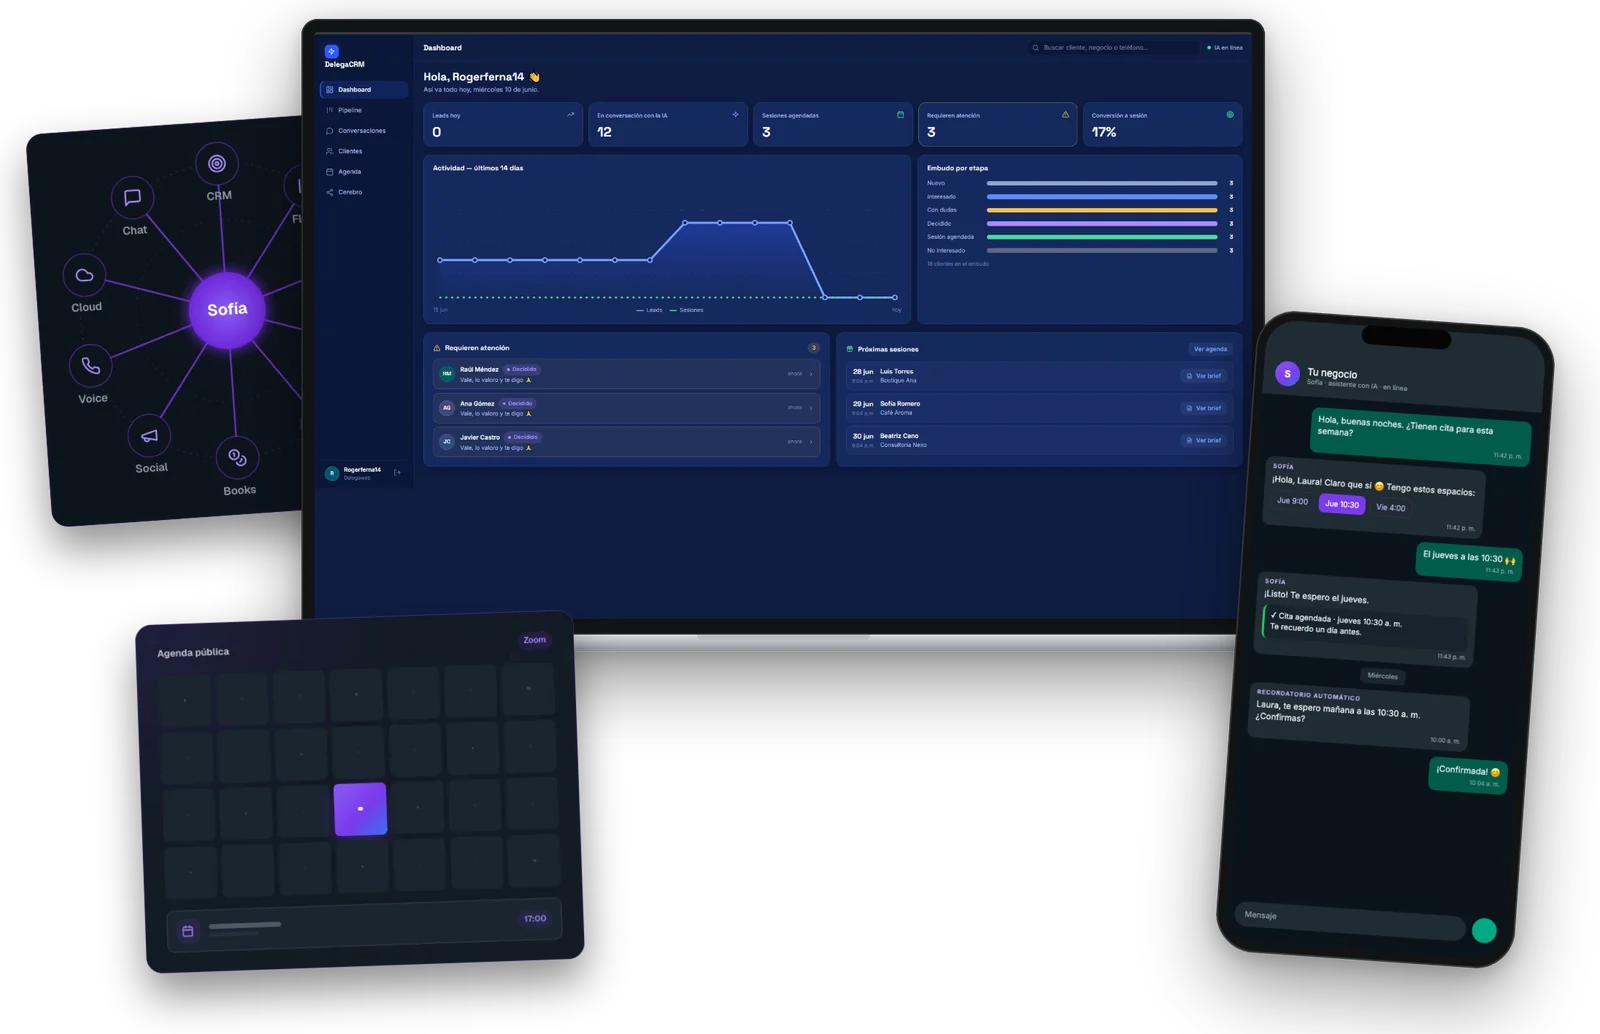
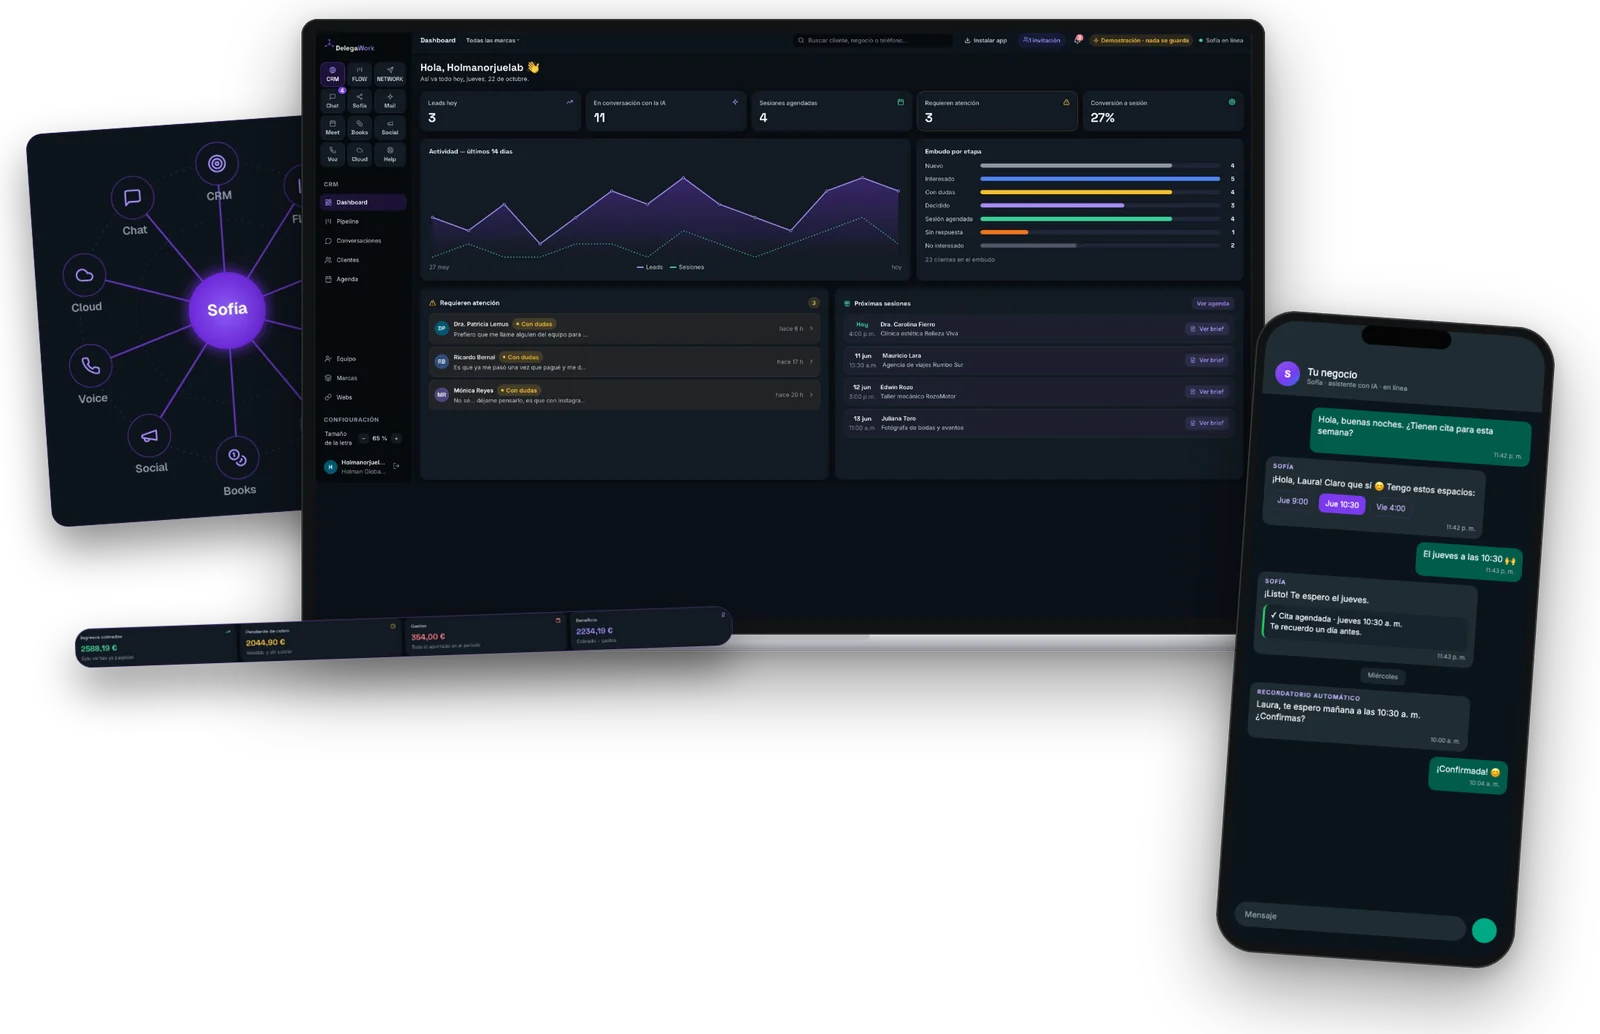
feat(tienda): DelegaWork con capturas reales de la plataforma
El panel real (modo demostración) va en los computadores de la vitrina,
Pro y Elite; Starter y Pro suman «Requieren atención», el embudo y las
próximas sesiones, y la vitrina y Elite los números de DelegaBooks.

diff --git a/scripts/mockups/delegawork.html b/scripts/mockups/delegawork.html
@@ -3,8 +3,8 @@
 <head>
 <meta charset="utf-8">
 <!-- Mockups de DelegaWork para la vitrina de /tienda, con imágenes reales de
-     delegawork.com (capturas/delegawork/: el panel es su product-dashboard.png;
-     las tarjetas de módulos salen de la página con capturar.mjs). El chat de
+     delegawork.com (capturas/delegawork/: real-* son capturas de la plataforma en modo
+     demostración, oct 2026; el resto sale de la página con capturar.mjs). El chat de
      WhatsApp es de muestra. Se fotografía con render.sh delegawork. -->
 <link href="https://fonts.googleapis.com/css2?family=Inter:wght@300;400;500;600;700&display=block" rel="stylesheet">
 <style>
@@ -13,7 +13,7 @@
     --violeta-2: #8B5CF6;
     --lila: #C4B5FD;
     --grad: linear-gradient(135deg, #8B5CF6 0%, #7C3AED 55%, #3B6FF6 100%);
-    --panel: #0F1D44;
+    --panel: #0B1017;
     --sans: "Inter", Helvetica, Arial, sans-serif;
   }
   * { box-sizing: border-box; margin: 0; padding: 0; }
@@ -73,7 +73,7 @@
 </head>
 <body>
 
-<template id="t-panel"><img src="capturas/delegawork/panel.jpg" alt=""></template>
+<template id="t-panel"><img src="capturas/delegawork/real-panel.jpg" alt=""></template>
 
 <template id="t-chat">
   <div class="wa">
@@ -105,7 +105,7 @@
   <div class="laptop sombra" style="left:420px;top:110px;width:1320px">
     <div class="tapa"><div class="pantalla" data-t="t-panel"></div></div><div class="base"></div>
   </div>
-  <div class="pieza" style="left:200px;top:930px;width:600px;transform:rotate(-2deg)"><img src="capturas/delegawork/meet.jpg" alt=""></div>
+  <div class="pieza" style="left:110px;top:930px;width:900px;transform:rotate(-2deg)"><img src="capturas/delegawork/real-books-kpi.jpg" alt=""></div>
   <div class="phone sombra" style="left:1700px;top:520px;width:410px;height:880px;transform:rotate(4deg)"><span class="isla"></span><div class="pantalla" data-t="t-chat"></div></div>
 </section>
 
@@ -118,8 +118,8 @@
 
 <!-- Starter: WhatsApp, CRM y agenda -->
 <section class="escena" id="starter">
-  <div class="pieza" style="left:560px;top:80px;width:700px;transform:rotate(-3deg)"><img src="capturas/delegawork/crm.jpg" alt=""></div>
-  <div class="pieza" style="left:760px;top:420px;width:620px;transform:rotate(3deg)"><img src="capturas/delegawork/meet.jpg" alt=""></div>
+  <div class="pieza" style="left:560px;top:100px;width:720px;transform:rotate(-3deg)"><img src="capturas/delegawork/real-atencion.jpg" alt=""></div>
+  <div class="pieza" style="left:740px;top:440px;width:660px;transform:rotate(3deg)"><img src="capturas/delegawork/real-sesiones.jpg" alt=""></div>
   <div class="phone sombra" style="left:150px;top:90px;width:410px;height:880px;transform:rotate(-4deg)"><span class="isla"></span><div class="pantalla" data-t="t-chat"></div></div>
   <div class="cifra" style="left:1180px;top:140px;transform:rotate(4deg)" data-t="t-cifra" data-n="300" data-w="30%"></div>
 </section>
@@ -129,10 +129,10 @@
   <div class="laptop sombra" style="left:220px;top:60px;width:1140px">
     <div class="tapa"><div class="pantalla" data-t="t-panel"></div></div><div class="base"></div>
   </div>
-  <div class="pieza" style="left:40px;top:470px;width:560px;transform:rotate(-4deg)"><img src="capturas/delegawork/crm.jpg" alt=""></div>
-  <div class="pieza" style="left:880px;top:560px;width:500px;transform:rotate(3deg)"><img src="capturas/delegawork/meet.jpg" alt=""></div>
+  <div class="pieza" style="left:30px;top:400px;width:540px;transform:rotate(-4deg)"><img src="capturas/delegawork/real-embudo.jpg" alt=""></div>
+  <div class="pieza" style="left:640px;top:600px;width:600px;transform:rotate(3deg)"><img src="capturas/delegawork/real-sesiones.jpg" alt=""></div>
   <div class="phone sombra" style="left:1260px;top:250px;width:340px;height:730px;transform:rotate(5deg)"><span class="isla"></span><div class="pantalla" data-t="t-chat"></div></div>
-  <div class="cifra" style="left:520px;top:640px" data-t="t-cifra" data-n="600" data-w="60%"></div>
+  <div class="cifra" style="left:220px;top:700px" data-t="t-cifra" data-n="600" data-w="60%"></div>
 </section>
 
 <!-- Elite: todo el sistema -->
@@ -142,6 +142,7 @@
     <div class="tapa"><div class="pantalla" data-t="t-panel"></div></div><div class="base"></div>
   </div>
   <div class="pieza" style="left:120px;top:660px;width:540px;transform:rotate(-2deg)"><img src="capturas/delegawork/voice.jpg" alt=""></div>
+  <div class="pieza" style="left:420px;top:560px;width:640px;transform:rotate(1deg)"><img src="capturas/delegawork/real-books-kpi.jpg" alt=""></div>
   <div class="phone sombra" style="left:1220px;top:300px;width:350px;height:760px;transform:rotate(4deg)"><span class="isla"></span><div class="pantalla" data-t="t-chat"></div></div>
   <div class="cifra" style="left:720px;top:700px" data-t="t-cifra" data-n="1.000" data-w="100%"></div>
 </section>

diff --git a/src/components/tienda.tsx b/src/components/tienda.tsx
@@ -316,7 +316,7 @@ const PRODUCTS: Product[] = [
     whatsappText: "Hola Holman, quiero información sobre DelegaWork — plan Starter.",
     visual: {
       src: "/tienda/delegawork-starter.webp",
-      alt: "Sofía agendando por WhatsApp y la agenda pública de DelegaMeet; atiende 300 clientes",
+      alt: "Sofía agendando por WhatsApp, los clientes que requieren atención en el CRM y las próximas sesiones; atiende 300 clientes",
     },
   },
   {
@@ -335,7 +335,7 @@ const PRODUCTS: Product[] = [
     whatsappText: "Hola Holman, quiero información sobre DelegaWork — plan Pro.",
     visual: {
       src: "/tienda/delegawork-pro.webp",
-      alt: "El panel de DelegaWork y el pipeline de ventas; atiende 600 clientes",
+      alt: "El panel de DelegaWork, el embudo por etapa, las próximas sesiones y WhatsApp; atiende 600 clientes",
     },
   },
   {
@@ -354,7 +354,7 @@ const PRODUCTS: Product[] = [
     whatsappText: "Hola Holman, quiero información sobre DelegaWork — plan Elite.",
     visual: {
       src: "/tienda/delegawork-elite.webp",
-      alt: "El sistema completo: panel, Sofía, llamadas y WhatsApp; atiende 1.000 clientes",
+      alt: "El sistema completo: panel, Sofía, DelegaBooks, llamadas y WhatsApp; atiende 1.000 clientes",
     },
   },
 
@@ -670,11 +670,11 @@ const GROUPS: Group[] = [
     name: "DelegaWork",
     headline: "Tu negocio, funcionando como un sistema.",
     paraTi: "Es para ti si ya vendes y tu negocio depende demasiado de ti.",
-    // Imágenes reales de delegawork.com (panel y módulos); el chat de WhatsApp
-    // es de muestra (mockups: scripts/mockups/render.sh delegawork).
+    // Capturas reales de la plataforma (modo demostración) y de delegawork.com;
+    // el chat de WhatsApp es de muestra (mockups: scripts/mockups/render.sh delegawork).
     vitrina: {
       img: "/tienda/delegawork-hero.webp",
-      alt: "El panel de DelegaWork en el computador, Sofía conectando los módulos, la agenda y Sofía agendando por WhatsApp",
+      alt: "El panel real de DelegaWork en el computador, Sofía conectando los módulos, las cuentas de DelegaBooks y Sofía agendando por WhatsApp",
       kicker: "Así trabaja DelegaWork en tu negocio",
       titulo: "Tu negocio atiende, agenda y vende a toda hora.",
       pasos: [
